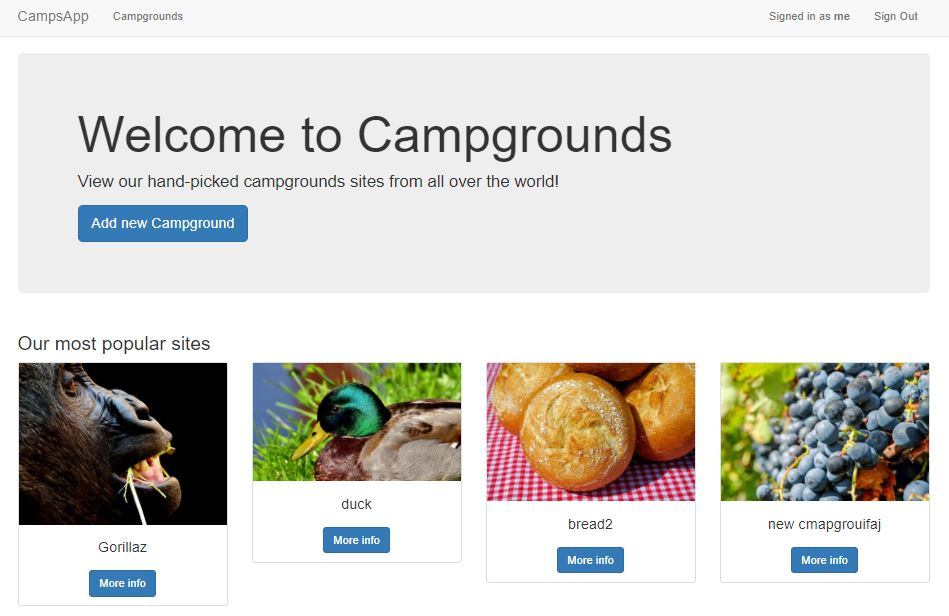
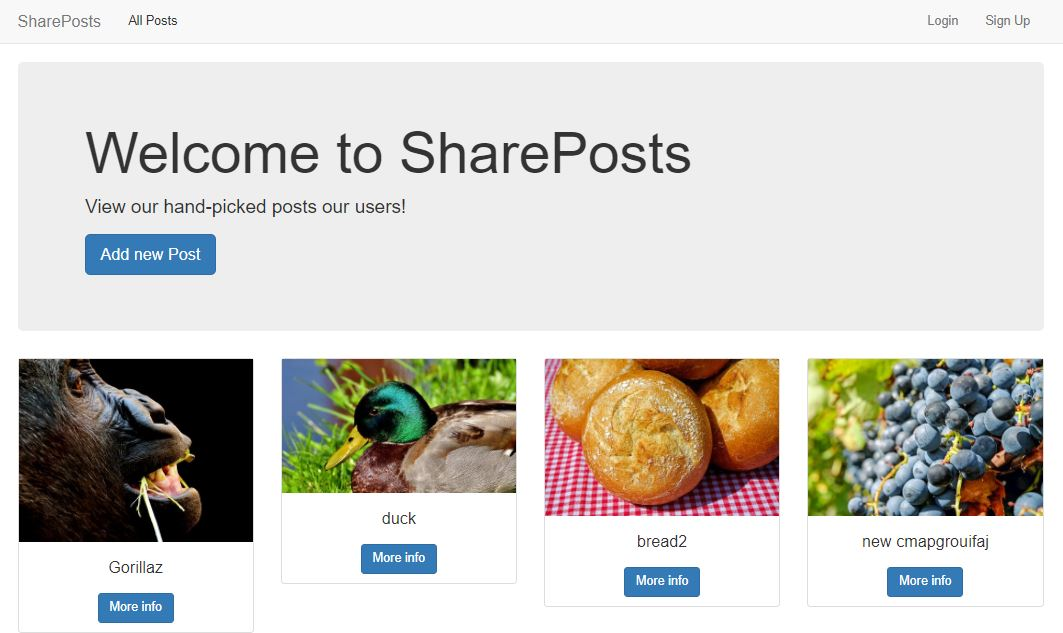
Change README images and description

diff --git a/readme.md b/readme.md
@@ -4,7 +4,7 @@ App built for fun to practice RESTful API as well as user authentications and
 authorizations logic.
 
 ## Features 
-- Upload new items with title, image and description 
+- Upload new posts with title, image and description 
 - User signup, login, sign out
 - CRUD operations for items according user permissions
 - Comment on items
